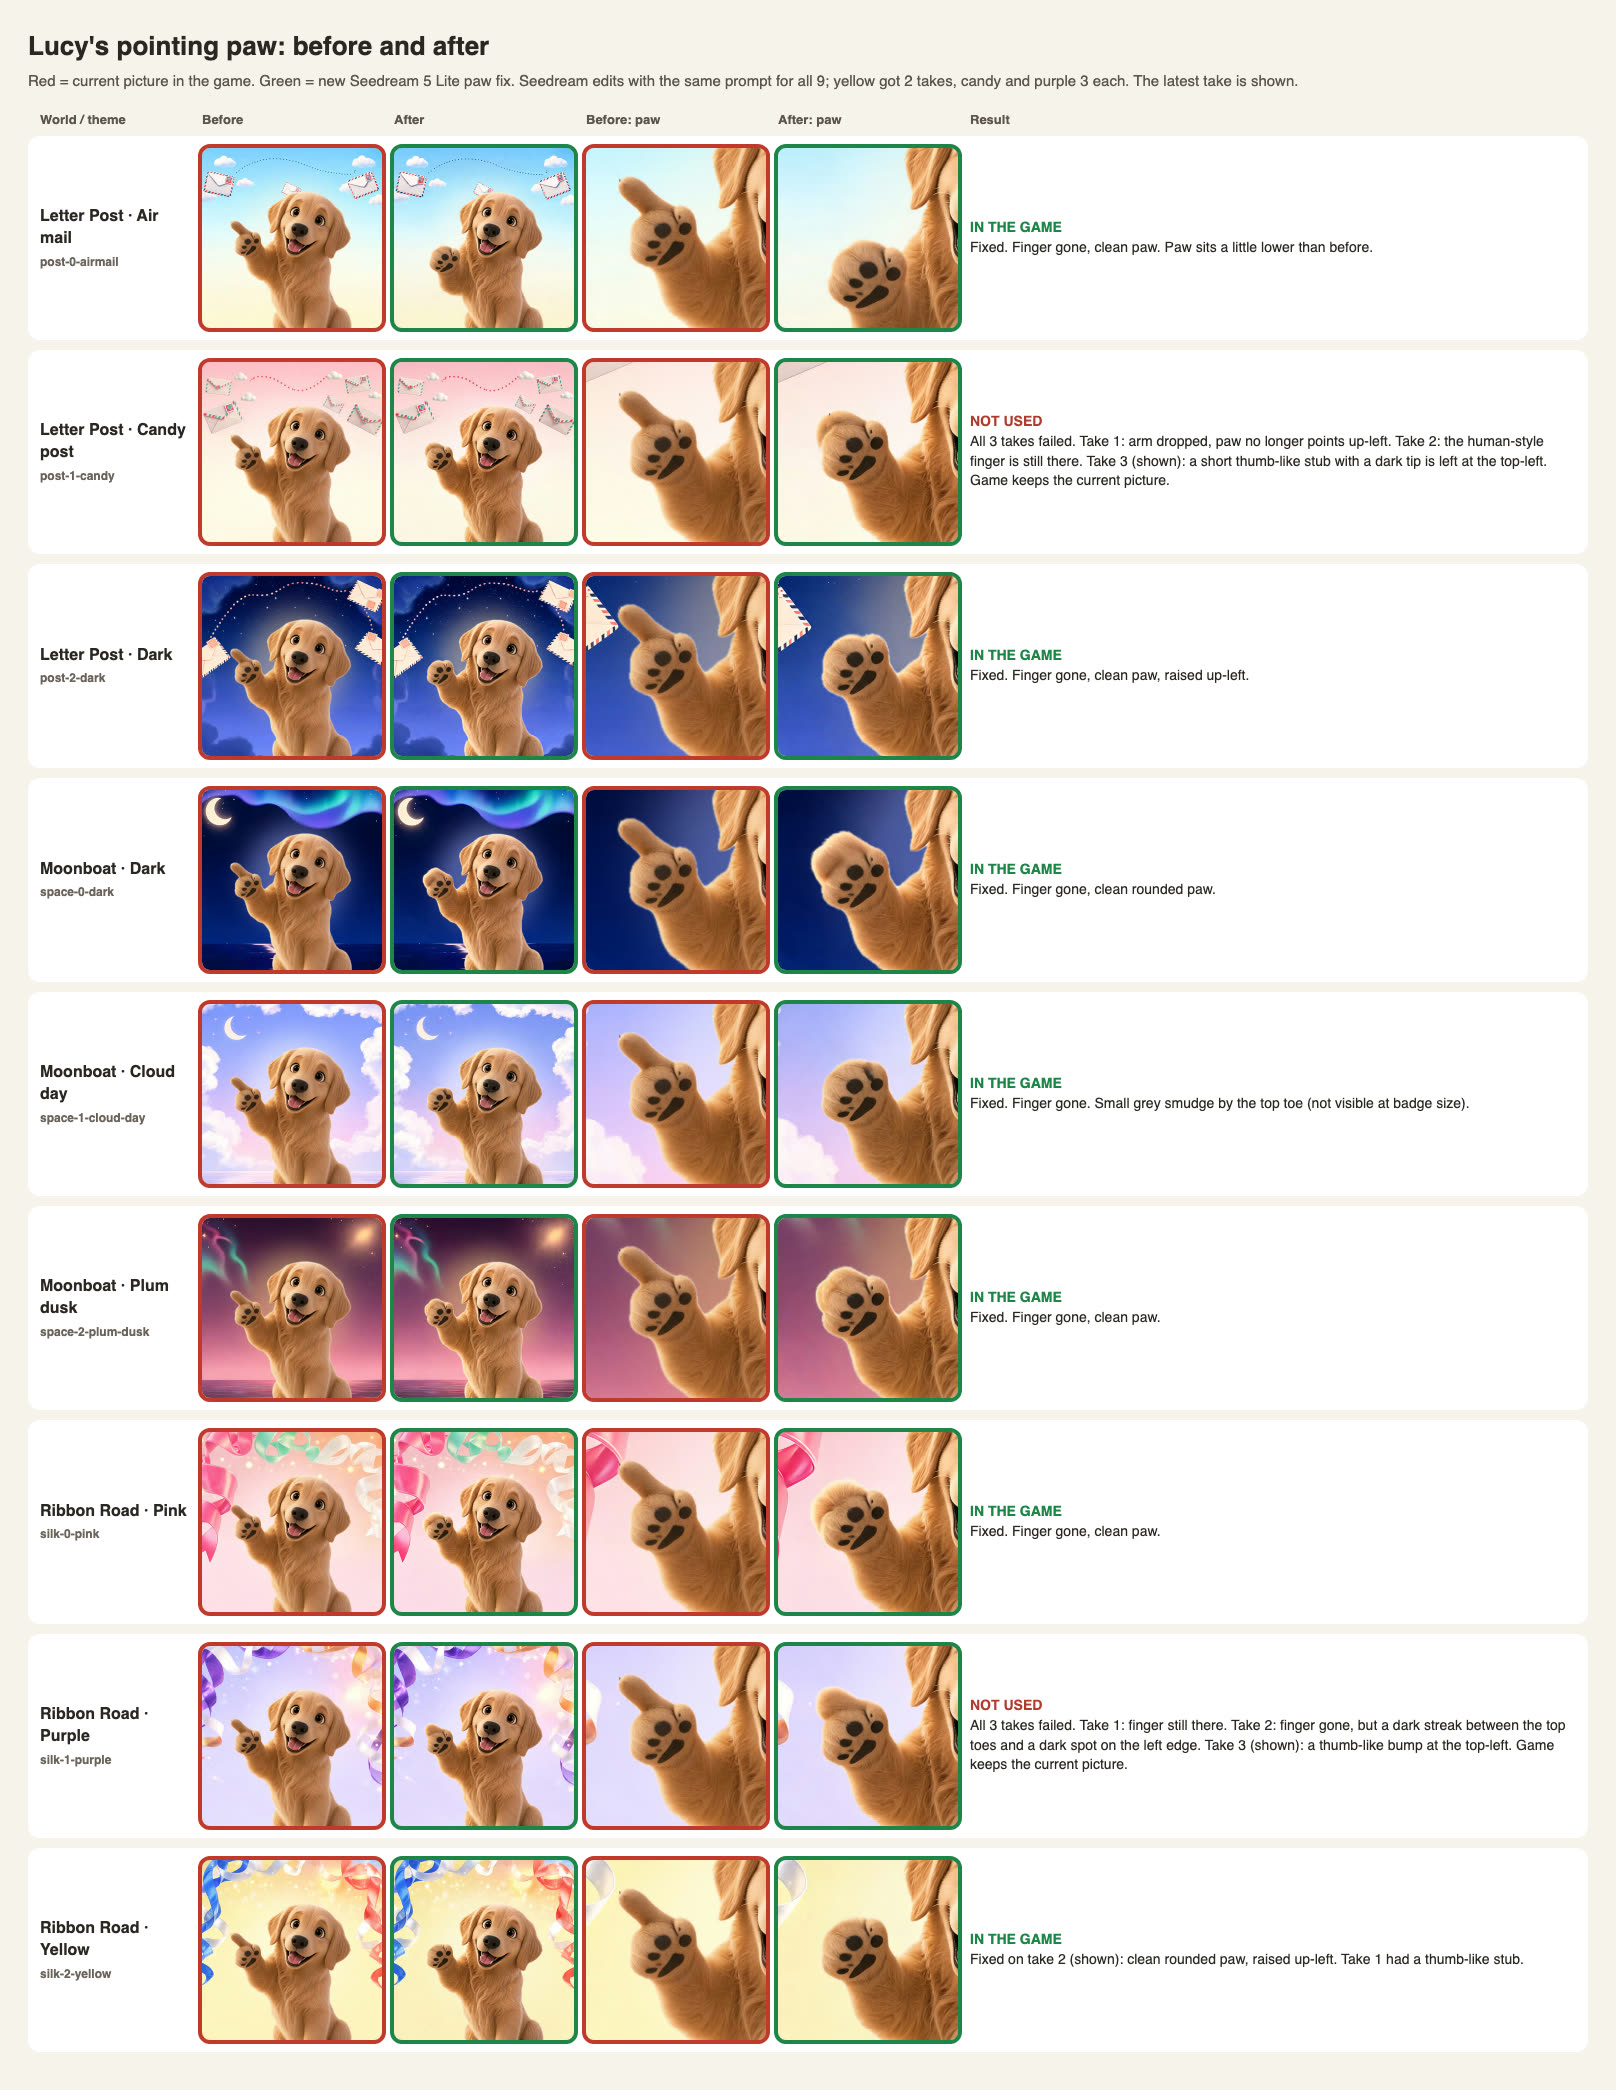
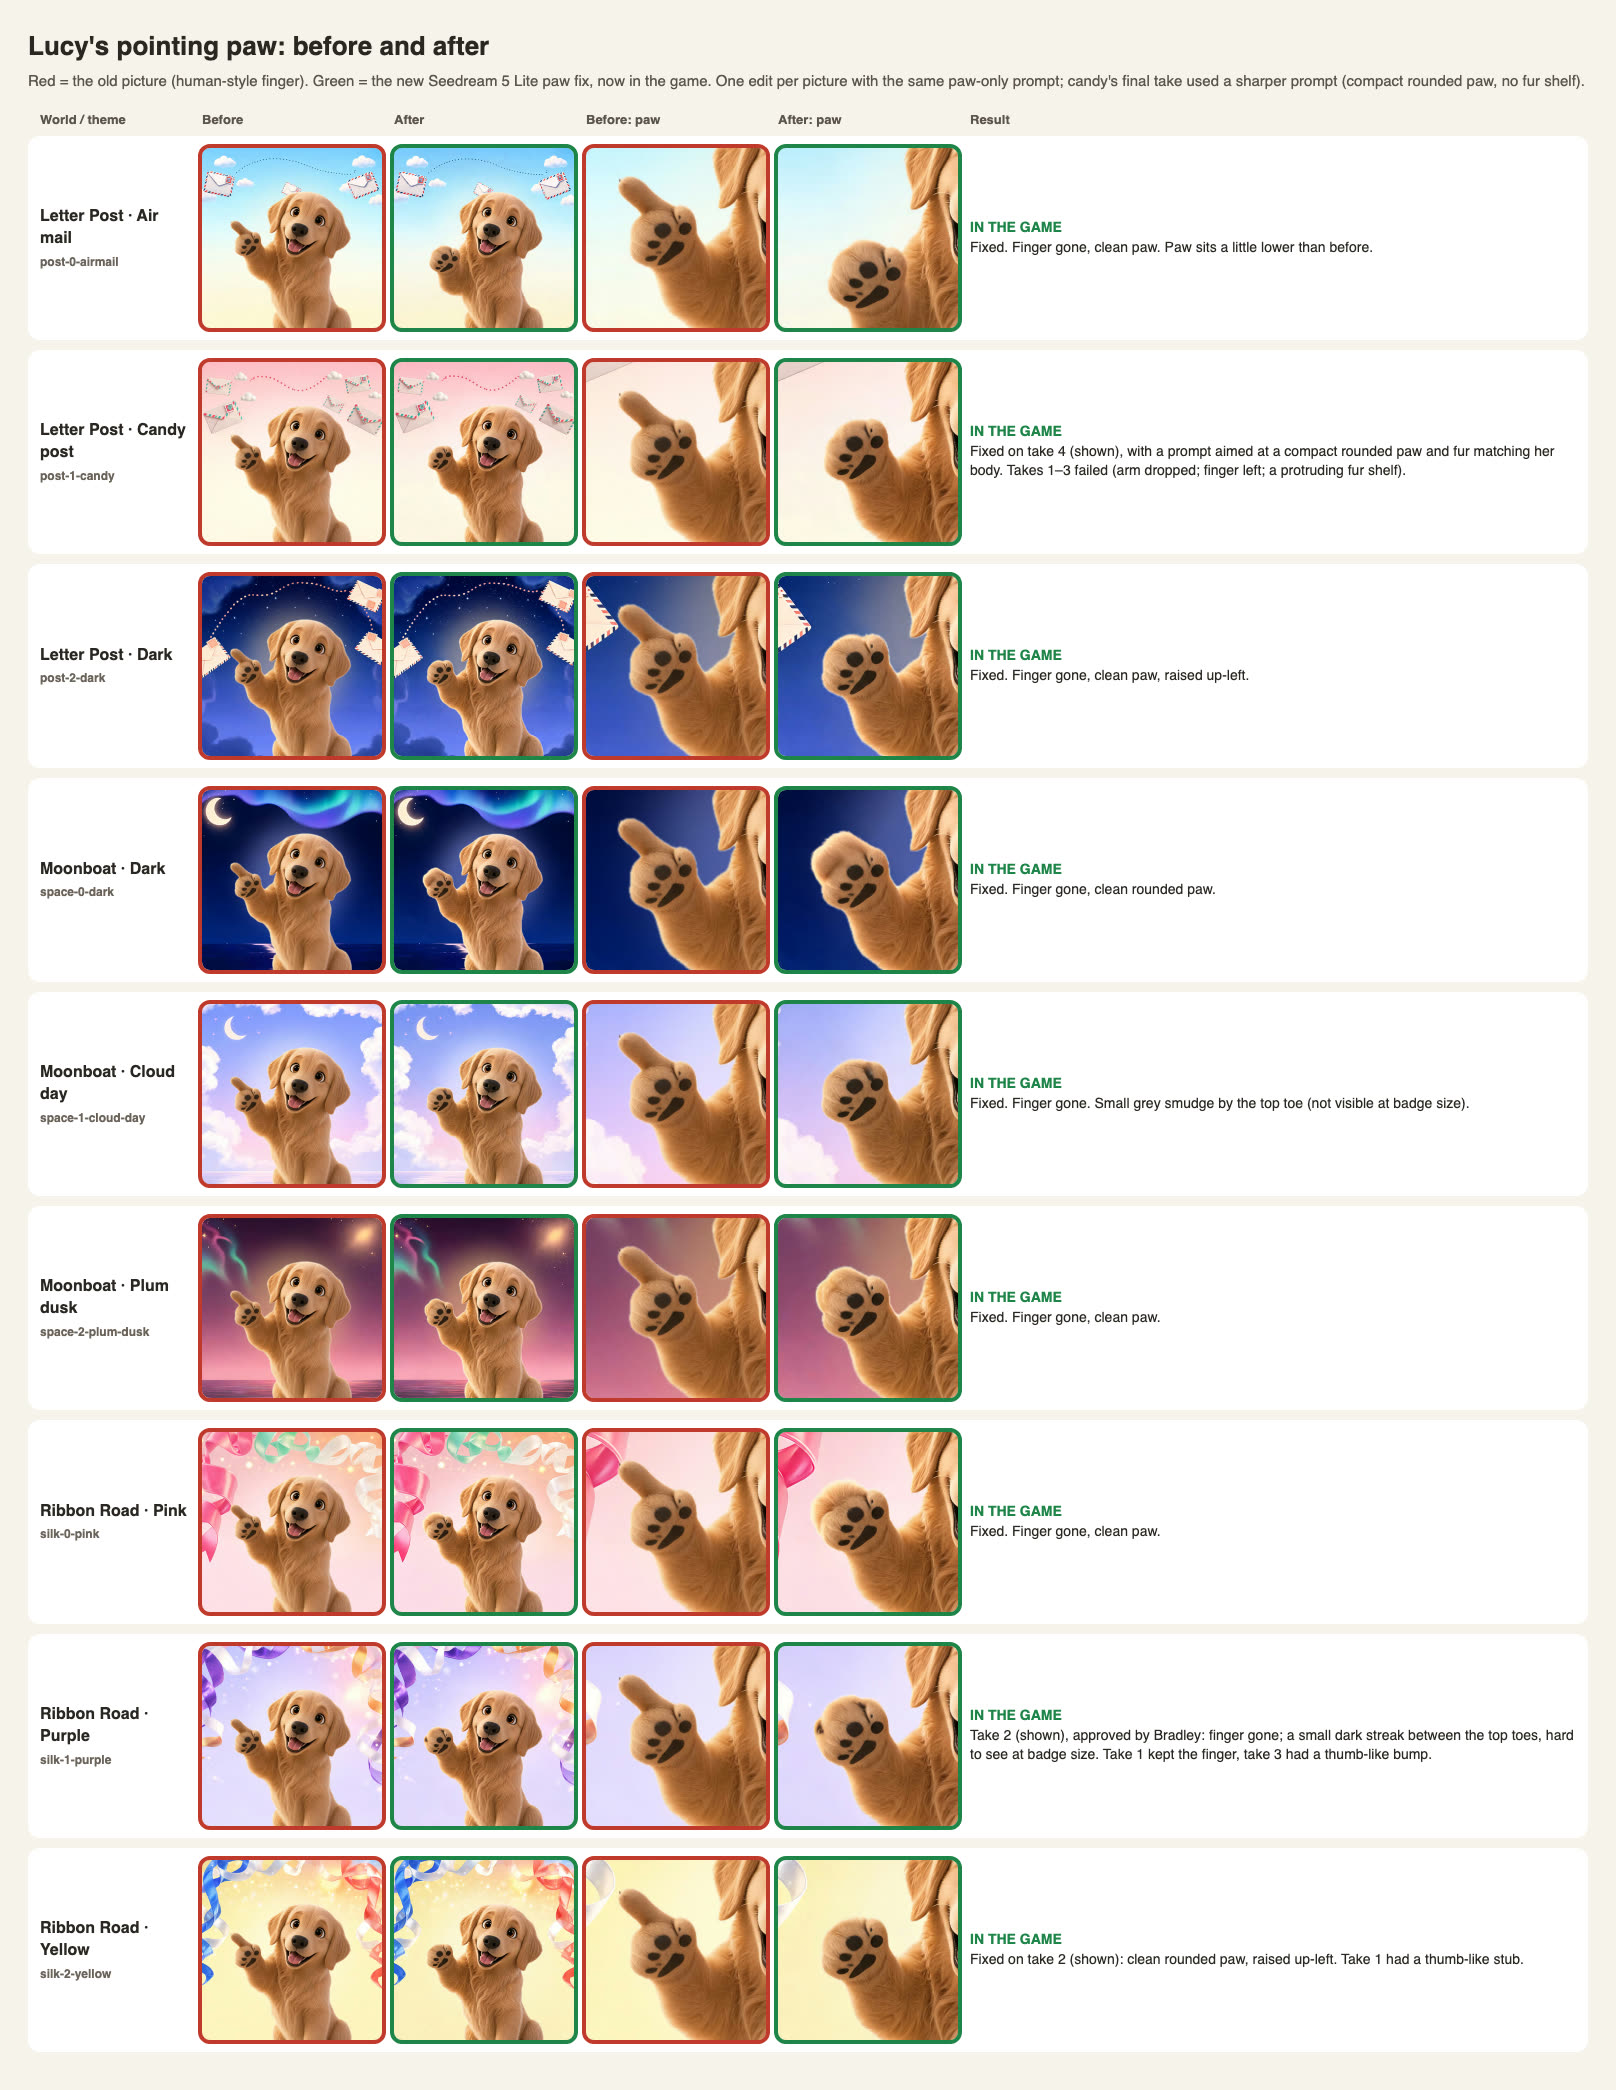
Lucy paw fix: candy and purple added, all 9 pictures fixed
- post-1-candy-paw.webp: take 4, with a sharper prompt (one compact rounded
  paw, no protruding fur shelf, fur matching her body, still raised up-left).
- silk-1-purple-paw.webp: take 2, as Bradley chose.
- hint.js now uses a "-paw" picture for every world and theme; old pictures
  kept. lucy_hint expects the new names; offline manifest rebuilt; report
  and before/after sheet updated. No audio changes.

diff --git a/sw-assets.js b/sw-assets.js
@@ -1,5 +1,5 @@
 self.OFFLINE_MANIFEST = {
-  "version": "399dcf05a7094061",
+  "version": "3e1986034bd9efda",
   "files": [
     "./accounts/client.js",
     "./accounts/config.js",
@@ -11,11 +11,13 @@ self.OFFLINE_MANIFEST = {
     "./accounts/lucy/nap.jpg",
     "./accounts/lucy/pointing/post-0-airmail-paw.webp",
     "./accounts/lucy/pointing/post-0-airmail.webp",
+    "./accounts/lucy/pointing/post-1-candy-paw.webp",
     "./accounts/lucy/pointing/post-1-candy.webp",
     "./accounts/lucy/pointing/post-2-dark-paw.webp",
     "./accounts/lucy/pointing/post-2-dark.webp",
     "./accounts/lucy/pointing/silk-0-pink-paw.webp",
     "./accounts/lucy/pointing/silk-0-pink.webp",
+    "./accounts/lucy/pointing/silk-1-purple-paw.webp",
     "./accounts/lucy/pointing/silk-1-purple.webp",
     "./accounts/lucy/pointing/silk-2-yellow-paw.webp",
     "./accounts/lucy/pointing/silk-2-yellow.webp",

diff --git a/v1-letter-post/hint.js b/v1-letter-post/hint.js
@@ -9,11 +9,10 @@
 // One pointing Lucy per world and theme (same Lucy, the world's own backdrop),
 // in the order of each world's theme menu (config.js). Her paw points up-left.
 // "-paw" pictures are the fixed ones: a plain dog paw, no human-style finger.
-// post-1-candy and silk-1-purple still wait for a good fix.
 const pictures = {
-  post: ['post-0-airmail-paw', 'post-1-candy', 'post-2-dark-paw'],
+  post: ['post-0-airmail-paw', 'post-1-candy-paw', 'post-2-dark-paw'],
   space: ['space-0-dark-paw', 'space-1-cloud-day-paw', 'space-2-plum-dusk-paw'],
-  silk: ['silk-0-pink-paw', 'silk-1-purple', 'silk-2-yellow-paw']
+  silk: ['silk-0-pink-paw', 'silk-1-purple-paw', 'silk-2-yellow-paw']
 };
 const image = () => {
   const set = pictures[window.CONCEPT?.kind];

diff --git a/reports/lucy-hint.md b/reports/lucy-hint.md
@@ -2,7 +2,7 @@
 
 Branch `claude/lucy-hint`, built on `claude/fullsite-redesign` (5e8992f). There have been five passes so far, plus a paw fix on its own branch:
 
-- **Paw fix (branch `claude/lucy-paw-fix`, from `claude/lucy-hint` 12e1853)** takes the human-style finger off Lucy's pointing paw in 7 of the 9 pictures.
+- **Paw fix (branch `claude/lucy-paw-fix`, from `claude/lucy-hint` 12e1853)** takes the human-style finger off Lucy's pointing paw in all 9 pictures.
 - **Round 5 (Bradley's round 4 brief)** changes the hint's words and makes Lucy bigger on whiteboards.
 - **Round 4** wires in the approved pointing-Lucy pictures, one per world and theme.
 - **Round 3** followed Bradley's answers to the three questions from round 2.
@@ -15,12 +15,12 @@ Nothing was deployed or merged, and no live account or live data was touched. No
 
 Bradley: "Lucy can point with her paw, but she doesn't have a long finger to point. She's not a human. So it just needs to be the paw."
 
-- **How:** one Seedream 5 Lite edit per picture (flow `yuQAe0hoTg2oErjfSE3P`, new "Paw fix …" nodes; no existing node changed). Each edit used that picture's round-2 master as its reference and the same paw-only prompt Bradley approved on the first picture. The runs went from Bradley's Mac Chrome with his VPN on, because the connector itself is region-blocked.
-- **In the game now (7):** `post-0-airmail-paw`, `post-2-dark-paw`, `space-0-dark-paw`, `space-1-cloud-day-paw`, `space-2-plum-dusk-paw`, `silk-0-pink-paw`, `silk-2-yellow-paw`. Each is a new 256 × 256 WebP in `accounts/lucy/pointing/`, 7–10 KB. Lucy's paw still points up-left. The finger is gone and the pads are the same.
-- **Retakes:** Bradley approved one retake each for candy, purple and yellow, then a third take for candy and purple, all with the same prompt. Yellow came out clean on the second take: its first take left a short thumb-like stub.
-- **Not used yet (2):** each of these keeps its current picture until a better take exists.
-  - `post-1-candy`: on take 1 her arm dropped and her paw no longer pointed up-left. Take 2 still had the finger. Take 3 left a short thumb-like stub with a dark tip.
-  - `silk-1-purple`: on take 1 the finger was still there. Take 2 removed it, but it left a dark streak between the top toes and a dark spot on the paw's edge. Take 3 left a thumb-like bump.
+- **How:** one Seedream 5 Lite edit per picture (flow `yuQAe0hoTg2oErjfSE3P`, new "Paw fix …" nodes; no existing node changed). Each edit used that picture's round-2 master as its reference and the paw-only prompt Bradley approved on the first picture. Candy's final take used a sharper version of that prompt. The runs went from Bradley's Mac Chrome with his VPN on, because the connector itself is region-blocked.
+- **In the game now (all 9):** `post-0-airmail-paw`, `post-1-candy-paw`, `post-2-dark-paw`, `space-0-dark-paw`, `space-1-cloud-day-paw`, `space-2-plum-dusk-paw`, `silk-0-pink-paw`, `silk-1-purple-paw`, `silk-2-yellow-paw`. Each is a new 256 × 256 WebP in `accounts/lucy/pointing/`, 7–10 KB. Lucy's paw still points up-left. The finger is gone and the pads are the same.
+- **Retakes**, each one approved by Bradley:
+  - **Yellow** came out clean on take 2. Take 1 left a short thumb-like stub.
+  - **Purple** uses take 2, which Bradley picked. The finger is gone, with a small dark streak between the top toes that is hard to see at badge size. Take 1 kept the finger, and take 3 left a thumb-like bump.
+  - **Candy** came out clean on take 4. Take 1 dropped her arm, take 2 kept the finger, and take 3 left what Bradley called "a shelf of fur protruding". Take 4 used a sharper prompt: one compact, rounded paw, no protruding fur, and fur matching her body.
 - **Kept:** the old pictures stay in place, and nothing was overwritten.
 - **Changed files:** `v1-letter-post/hint.js` (the picture list), `tests/lucy_hint.cjs` (the expected names) and `sw-assets.js` (rebuilt so the new pictures work offline).
 
